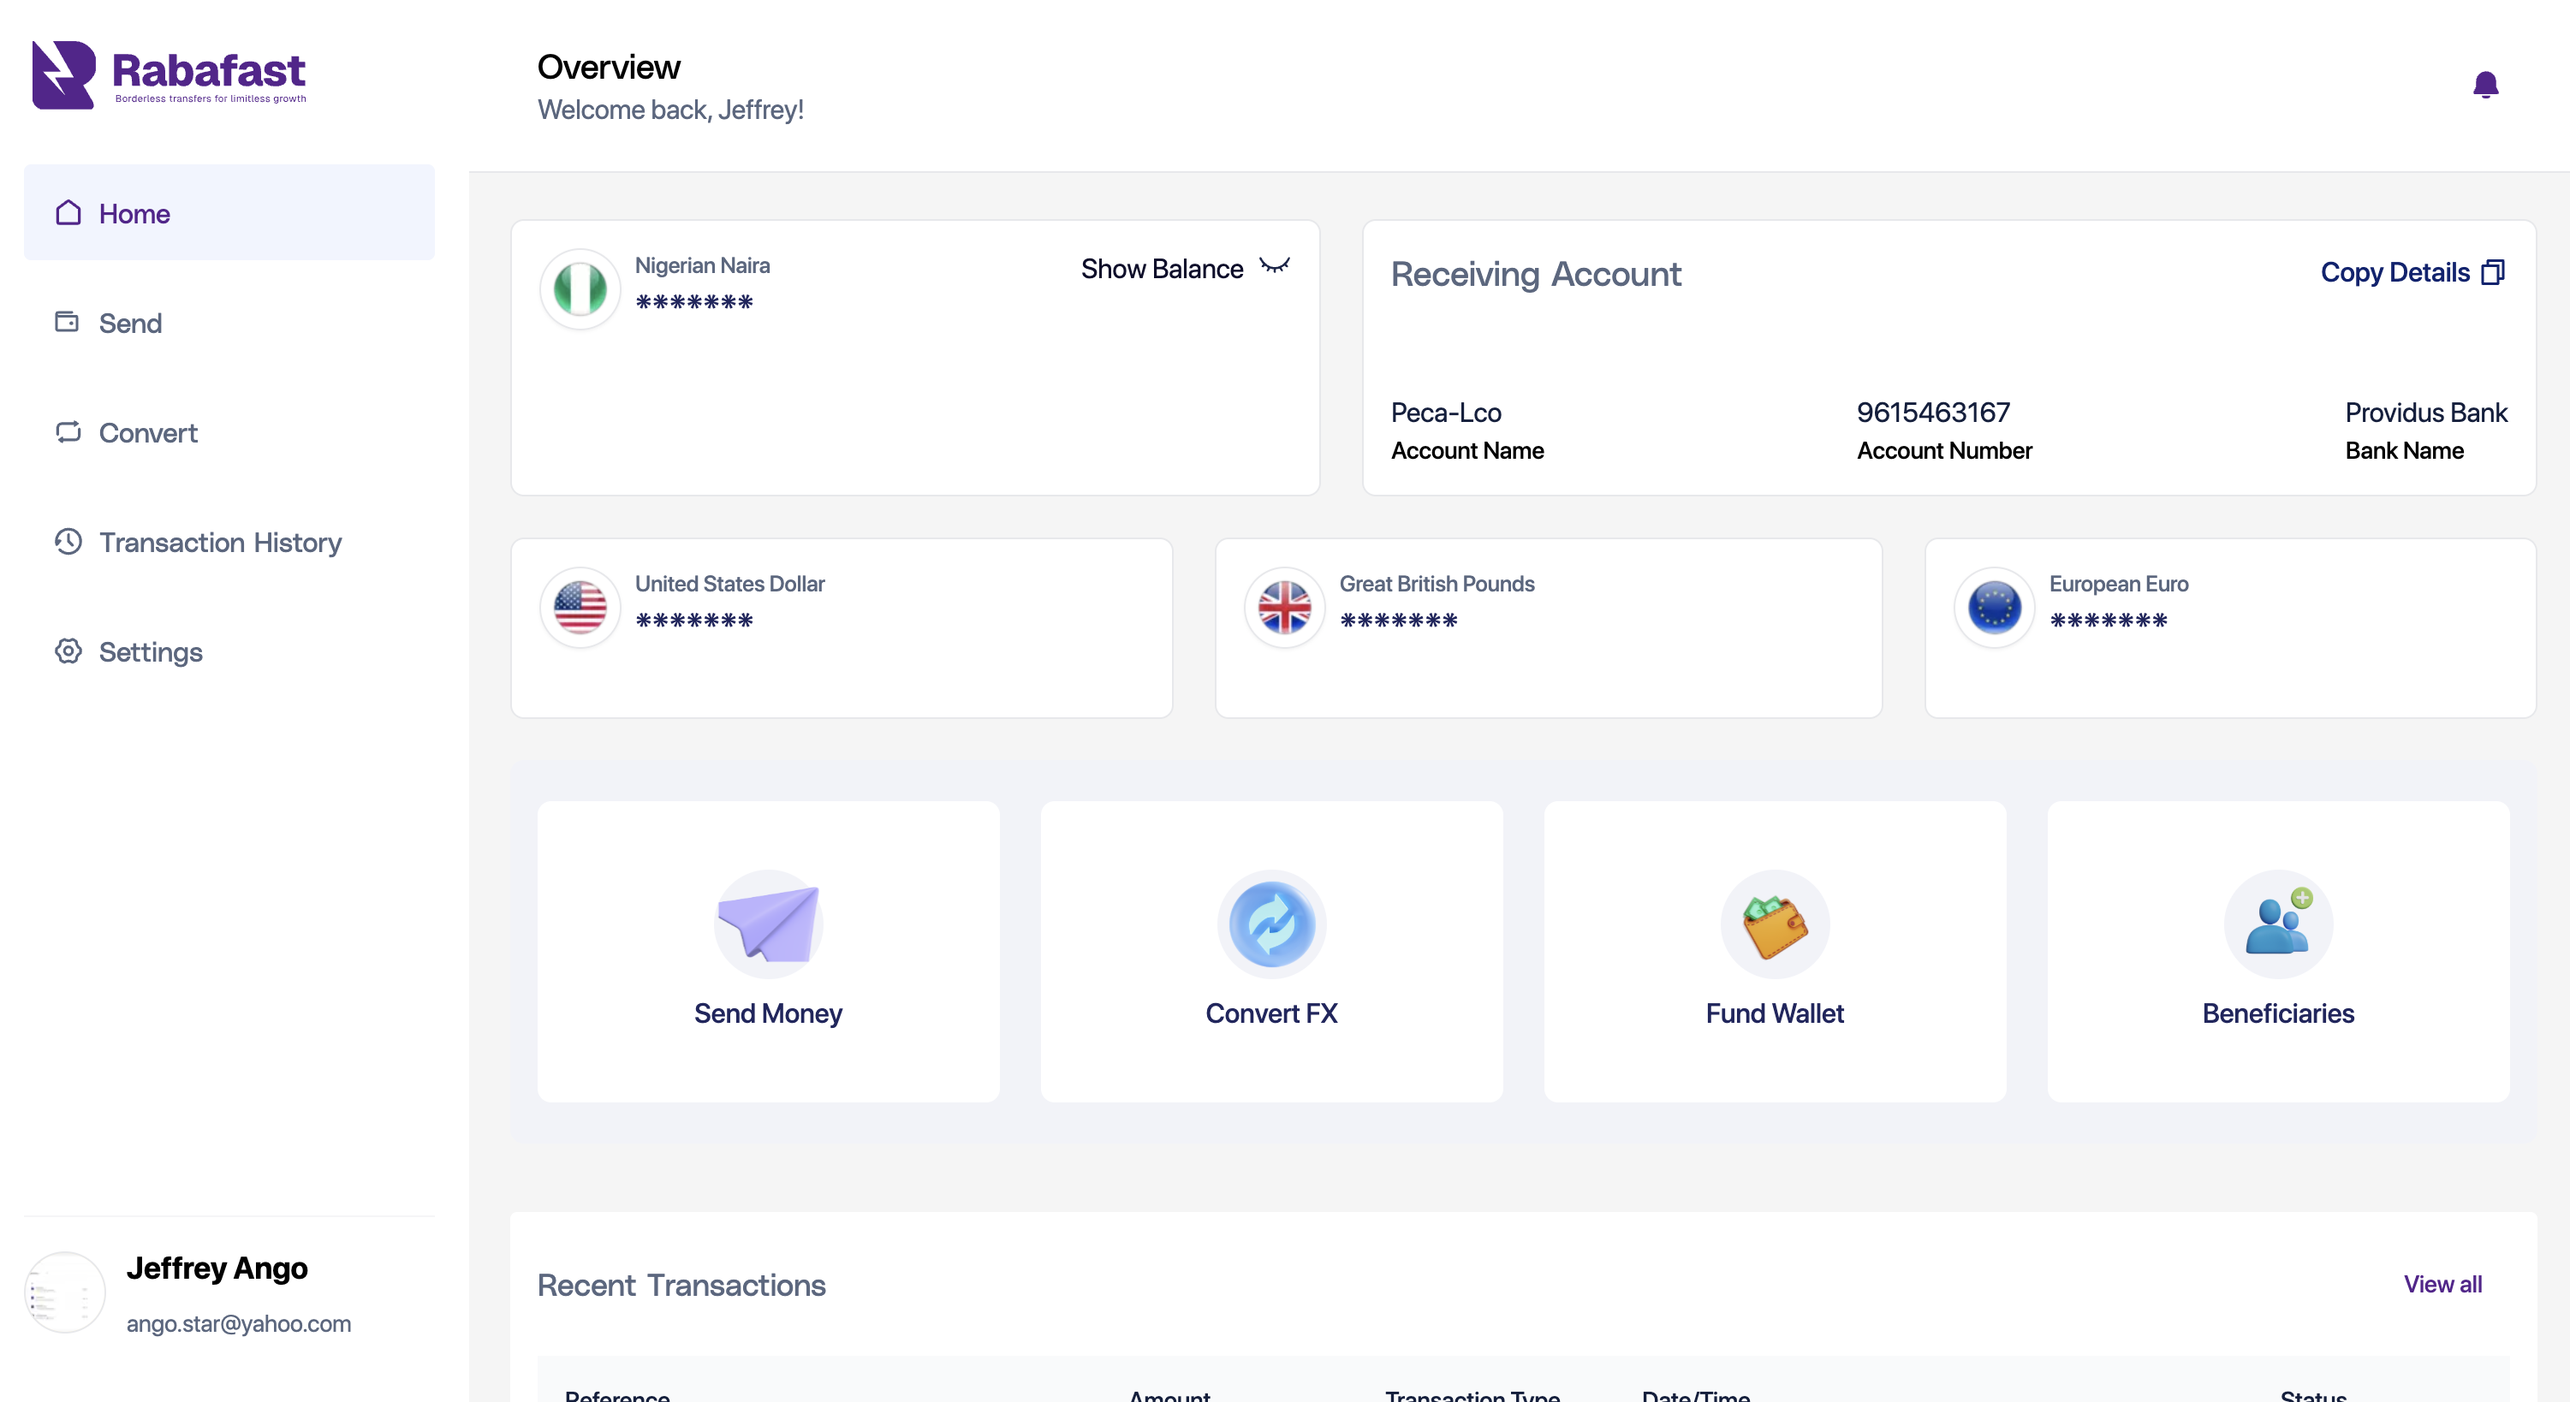
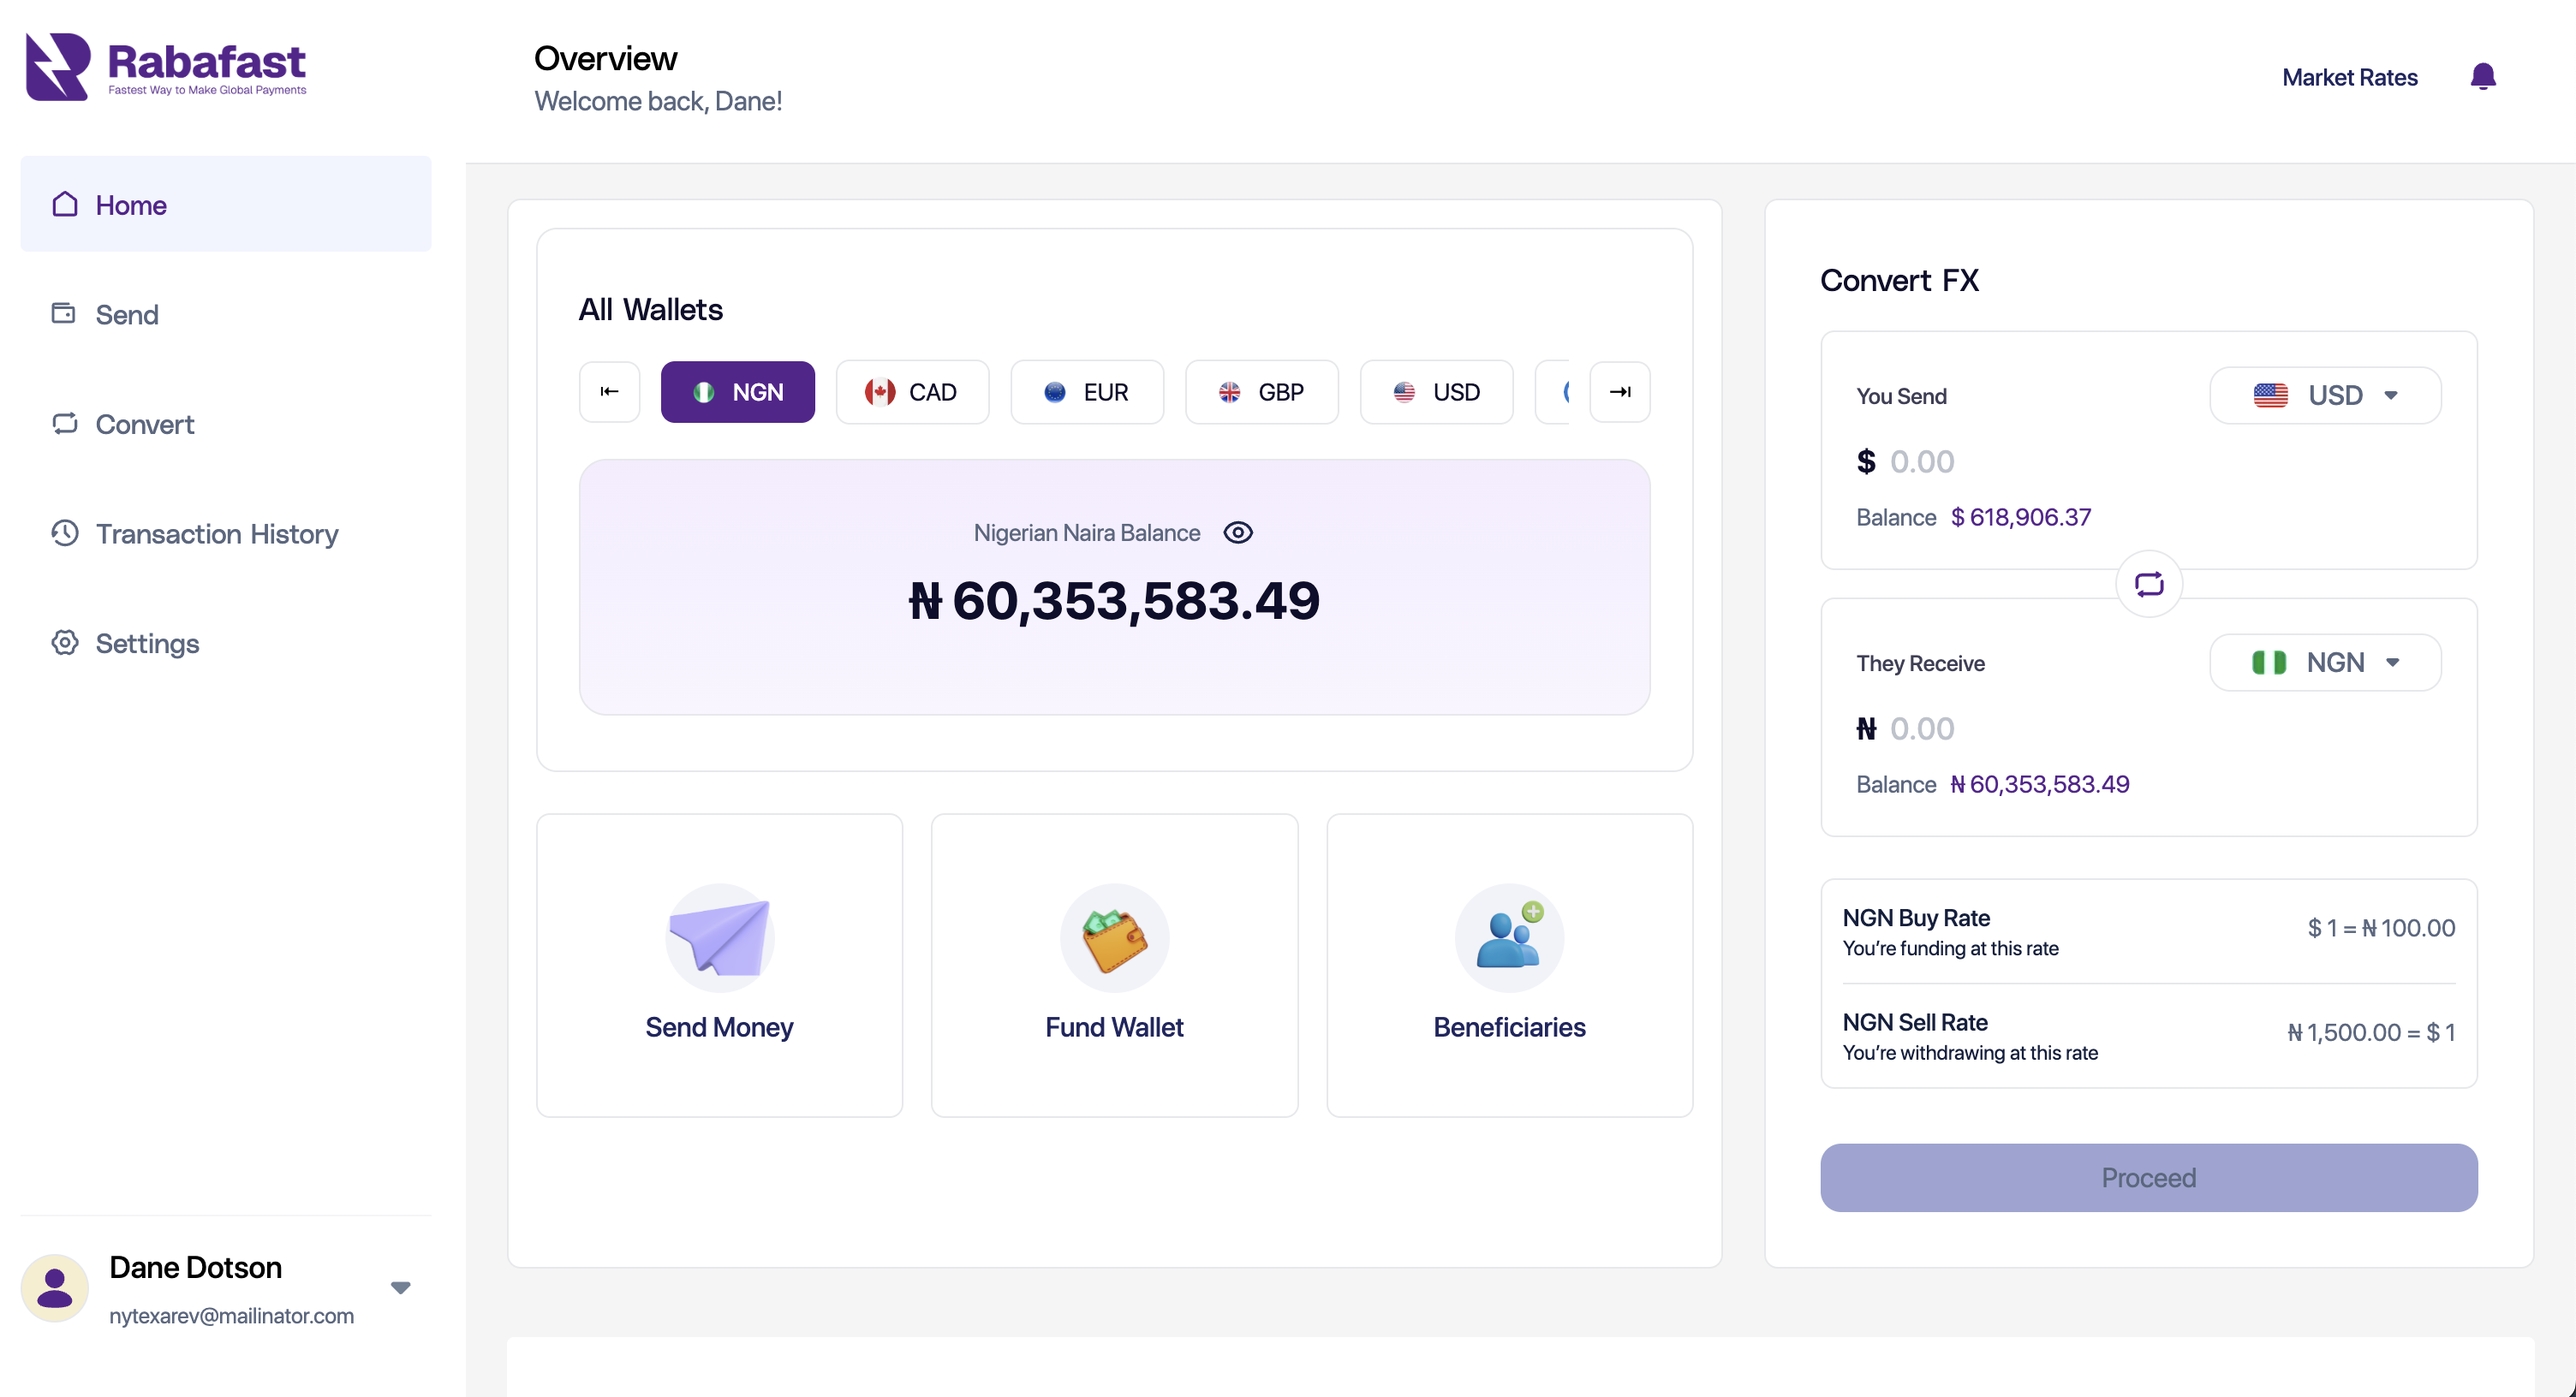
add case study page and case study information on all projects

diff --git a/src/components/cards/ProjectCard.tsx b/src/components/cards/ProjectCard.tsx
@@ -2,60 +2,57 @@ interface Props {
   title: string;
   imageSrc: string;
   description: string;
-  technologies: string[];
   link: string;
+  caseStudy?: {
+    slug: string;
+  };
 }
 const ProjectCard = ({
   title,
   imageSrc,
   description,
-  technologies,
   link,
+  caseStudy,
 }: Props) => {
+  const href = caseStudy ? `/case-study/${caseStudy.slug}` : link;
+  const isExternal = !caseStudy;
+
   return (
     <a
-      href={link}
-      target="_blank"
-      rel="noopener noreferrer"
+      href={href}
+      {...(isExternal
+        ? { target: "_blank" as const, rel: "noopener noreferrer" as const }
+        : {})}
       className="w-full flex flex-col lg:flex-row items-center lg:items-start gap-6 border border-ink/20 rounded-lg p-4 transition-all duration-300 group lg:hover:border-light-purple dark:border-night-border dark:lg:hover:border-light-purple"
     >
       <div className="w-[120px] h-[80px] shrink-0 rounded-lg overflow-hidden border border-gray-200 dark:border-night-border">
         <img
           src={imageSrc}
-          alt={title}
+          alt=""
           className="w-full h-full object-cover"
         />
       </div>
-      <div>
-        <h4 className="mb-2 text-lg font-bold text-ink transition-all duration-300 group-hover:text-light-purple dark:text-zinc-100">
+      <div className="flex flex-col items-center lg:items-start w-full min-w-0">
+        <h4 className="mb-2 text-lg font-bold text-ink transition-all duration-300 group-hover:text-light-purple dark:text-zinc-100 text-center lg:text-left">
           {title}
 
           <svg
             viewBox="0 0 24 24"
             className="inline-block w-4 h-4 stroke-ink transition-all duration-300 lg:group-hover:stroke-light-purple dark:stroke-zinc-300 dark:lg:group-hover:stroke-light-purple"
             xmlns="http://www.w3.org/2000/svg"
+            aria-hidden
           >
             <path
               d="M7 17L17 7M17 7H8M17 7V16"
-              stroke-width="2"
-              stroke-linecap="round"
-              stroke-linejoin="round"
+              strokeWidth="2"
+              strokeLinecap="round"
+              strokeLinejoin="round"
             />
           </svg>
         </h4>
-        <p className="text-[13px] sm:text-[15px] text-gray-500 dark:text-zinc-400">
+        <p className="text-center lg:text-left text-[13px] sm:text-[15px] text-gray-500 dark:text-zinc-400">
           {description}
         </p>
-        <div className="flex gap-y-1 gap-x-2 flex-wrap mt-4">
-          {technologies.map((technology) => (
-            <span
-              key={technology}
-              className="rounded-full border border-ink bg-white dark:bg-ink px-2 py-1 text-xs text-ink transition-colors duration-300 sm:text-[13px] dark:border-white dark:text-white group-hover:border-light-purple group-hover:bg-white group-hover:text-ink dark:group-hover:bg-ink dark:group-hover:text-light-purple"
-            >
-              {technology}
-            </span>
-          ))}
-        </div>
       </div>
     </a>
   );
